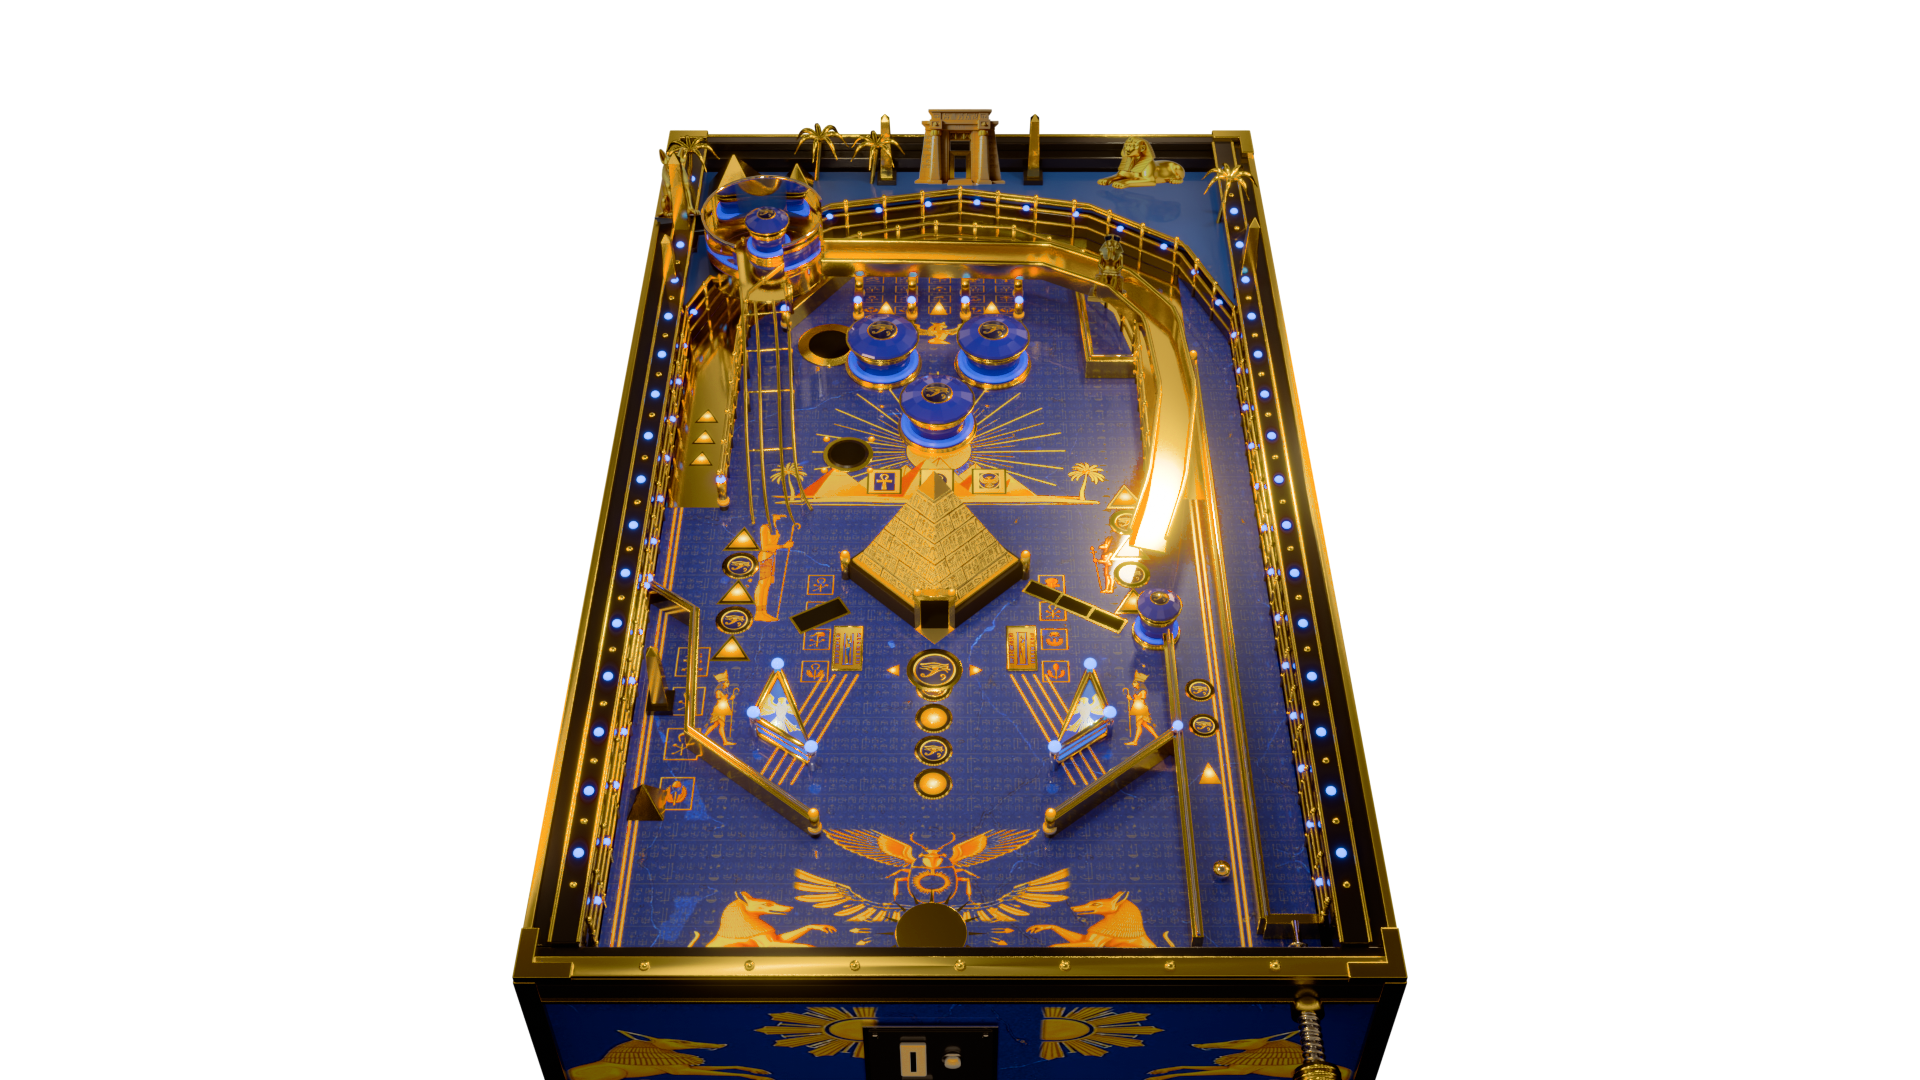
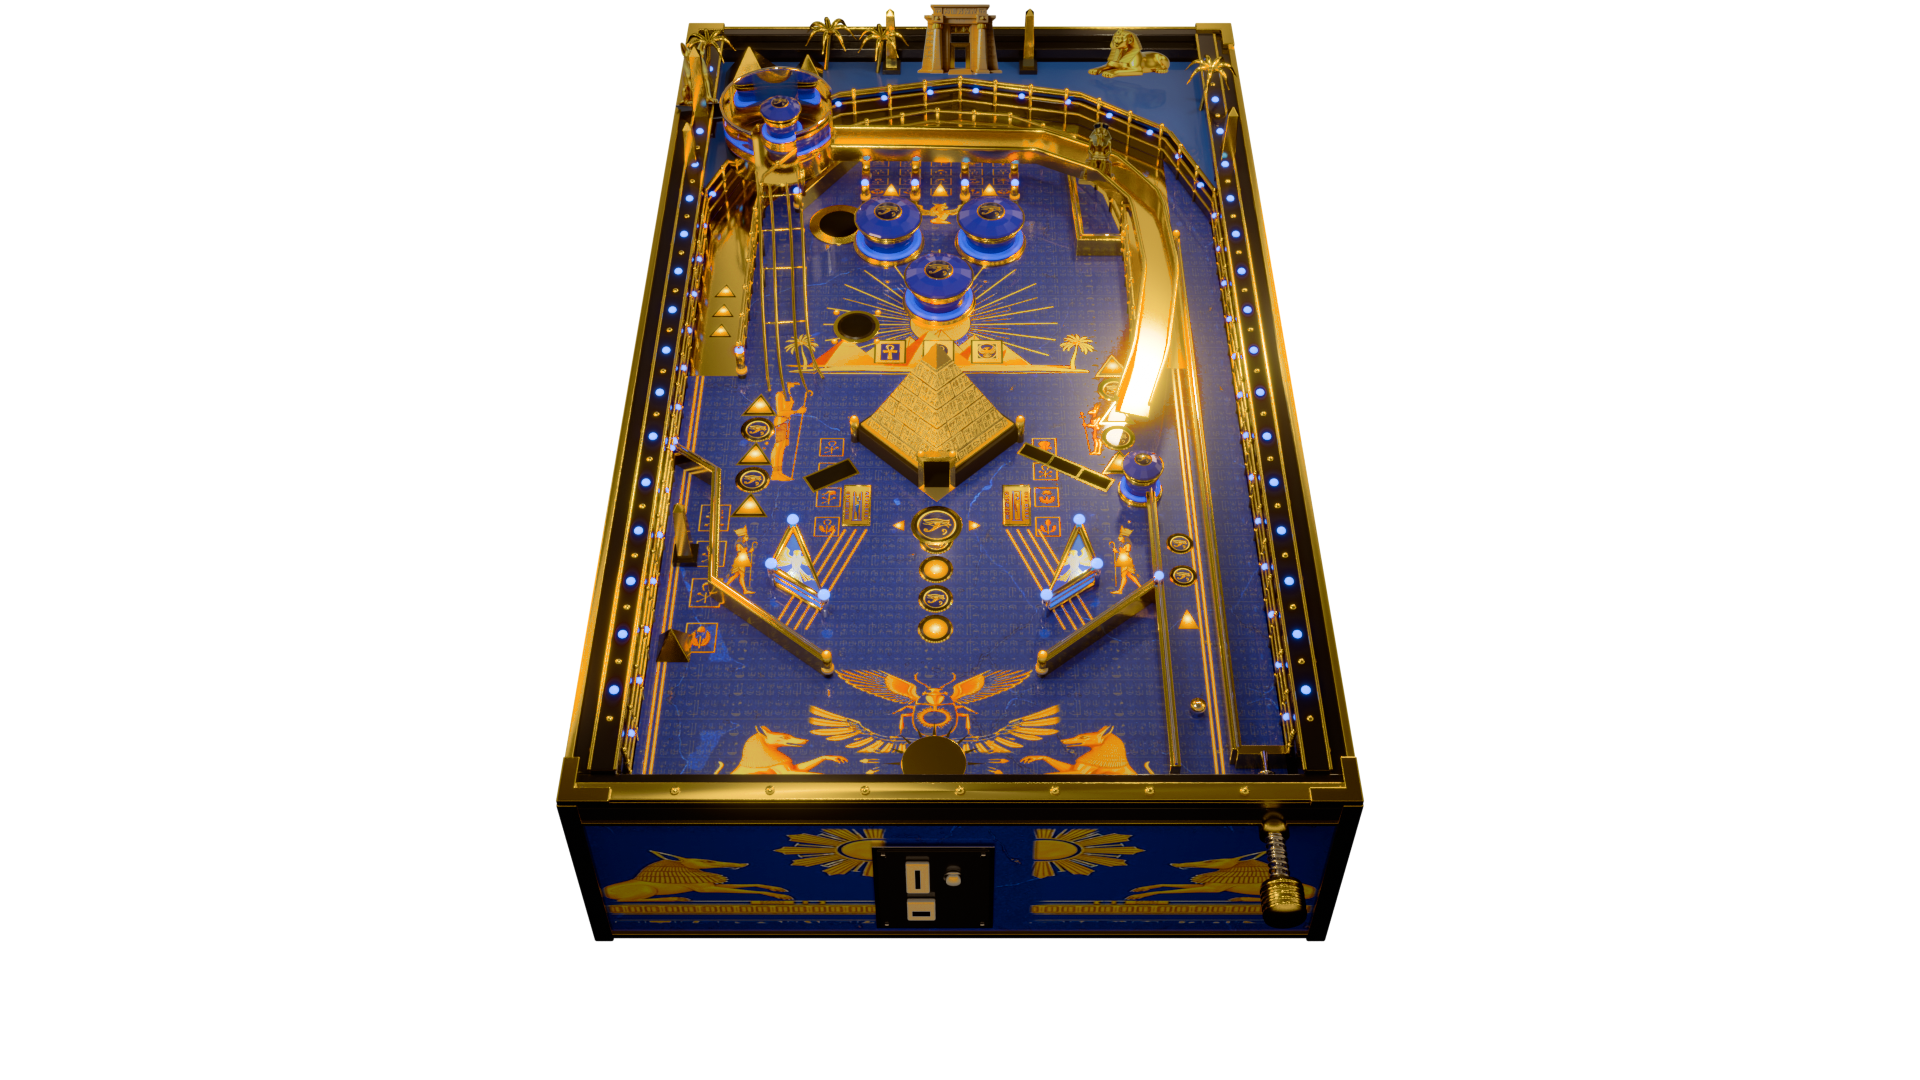
Stage layout as the owner placed it: the table high in the frame, the scoreboard at its foot
FRAME_TOP 58 and FRAME_BOTTOM 882 (92% of the old 168 to 1066): the temple reaches the frame's top edge and the
cabinet's front with the plunger's knob is in view. The scoreboard is 448 px wide, centred at the frame's foot
(bottom: 0) and grows upward over the cabinet's front; long names break inside it. The big titles move up with the
playfield (top 290 px). The picture is re-rendered through the new camera (CAMERA MATCH 0.00 px), and picture-test
holds stageCamera to the FRAME numbers.

diff --git a/tests/picture-test.ts b/tests/picture-test.ts
@@ -1,14 +1,16 @@
 // Tests the stage's picture (src/assets/pinball.png, made by `npm run picture` in Blender): it was rendered from the
-// table in use (its sidecar's hash), through the stage's own camera (stageCamera), at the stage's size.
+// table in use (its sidecar's hash), through the stage's own camera (stageCamera), at the stage's size; and that camera
+// puts the table's frame where FRAME_TOP and FRAME_BOTTOM say.
 // Usage: npm run picture-test
 import assert from 'node:assert/strict';
 import { createHash } from 'node:crypto';
 import { readFileSync } from 'node:fs';
-import { TABLE_IN_USE } from '../src/shared/table';
+import * as THREE from 'three';
+import { TABLE, TABLE_IN_USE } from '../src/shared/table';
 // The stage's code loads in Node with its CSS and the like stubbed (stub-assets.ts).
 import './stub-assets';
 
-const { stageCamera } = await import('../src/stage/pinball');
+const { FRAME_BOTTOM, FRAME_TOP, stageCamera, tiltTable } = await import('../src/stage/pinball');
 const { WIDTH, HEIGHT } = await import('@kit/stage');
 
 const PNG = new URL('../src/assets/pinball.png', import.meta.url);
@@ -37,6 +39,30 @@ test("the picture's camera is the stage's camera", () => {
   stage.matrix.forEach((v, i) => assert.ok(Math.abs(camera.matrix[i] - v) <= 1e-6, `matrix[${i}]: ${camera.matrix[i]} vs the stage's ${v}`));
   assert.ok(Math.abs(camera.fovY - stage.fovY) <= 1e-6, `fovY: ${camera.fovY} vs the stage's ${stage.fovY}`);
   assert.ok(Math.abs(camera.viewY - stage.viewY) <= 1e-6, `viewY: ${camera.viewY} vs the stage's ${stage.viewY}`);
+});
+
+test("the stage's camera fits the table's frame between FRAME_TOP and FRAME_BOTTOM", () => {
+  // The box stageCamera fits: the side rails' outsides, the front rail to past the top rail, from the playfield up to
+  // the rails' tops (TABLE's size), placed as the stage places the table.
+  const fit = stageCamera(TABLE_IN_USE, WIDTH, HEIGHT);
+  const camera = new THREE.PerspectiveCamera(fit.fovY, WIDTH / HEIGHT, 0.5, 200);
+  camera.matrixAutoUpdate = false;
+  camera.matrixWorld.fromArray(fit.matrix);
+  camera.matrixWorldInverse.copy(camera.matrixWorld).invert();
+  camera.setViewOffset(WIDTH, HEIGHT, 0, fit.viewY, WIDTH, HEIGHT);
+  const table = tiltTable(new THREE.Group());
+  table.updateMatrixWorld(true);
+  const half = TABLE.width / 2 + 0.8;
+  const ys: number[] = [];
+  for (const x of [-half, half]) {
+    for (const z of [-1.7, TABLE.length + 0.6]) {
+      for (const y of [0, 0.9]) ys.push(((1 - new THREE.Vector3(x, y, z).applyMatrix4(table.matrixWorld).project(camera).y) / 2) * HEIGHT);
+    }
+  }
+  // The camera steps back in small steps until the box fits, so each edge is within a pixel of its band's.
+  const [top, bottom] = [Math.min(...ys), Math.max(...ys)];
+  assert.ok(Math.abs(top - FRAME_TOP) <= 1, `the frame's top is at ${top.toFixed(1)} px, not FRAME_TOP ${FRAME_TOP}`);
+  assert.ok(Math.abs(bottom - FRAME_BOTTOM) <= 1, `the frame's bottom is at ${bottom.toFixed(1)} px, not FRAME_BOTTOM ${FRAME_BOTTOM}`);
 });
 
 test("the picture is the stage's size", () => {

diff --git a/src/stage/pinball.css b/src/stage/pinball.css
@@ -1,17 +1,22 @@
 /*
- * The pinball's scoreboard (PinballHud, pinball-hud.ts), in the stage's #machine-overlay: the backglass over the top of
- * the table, as the claw's turn box sits across its cabinet's base.
+ * The pinball's scoreboard (PinballHud, pinball-hud.ts), in the stage's #machine-overlay: at the frame's foot, under
+ * the plunger, across the cabinet's front, as the claw's turn box sits across its cabinet's base (the owner placed it,
+ * 2026-10-26). It's anchored by its bottom edge, so it grows upward over the cabinet's front as lines come and go.
+ * 448 px wide and centred, so the corner and vertical layouts (the stage's middle 1040 px) show it whole. Long lines
+ * wrap inside it, and a name with no break in it is broken anywhere rather than spilling out of the box.
  */
 #pinball-hud {
   position: absolute;
-  top: 14px;
+  bottom: 0;
   left: 50%;
-  width: 640px;
+  width: 448px;
   transform: translateX(-50%);
-  padding: 10px 22px 9px;
-  border-radius: 14px;
+  padding: 9px 14px 8px;
+  border-radius: 14px 14px 0 0;
+  overflow-wrap: anywhere;
   background: rgba(10, 4, 24, 0.86);
   border: 3px solid var(--cyan);
+  border-bottom-width: 0;
   font-family: var(--arcade);
   font-size: 15px;
   line-height: 1.6;
@@ -166,7 +171,11 @@ body.no-commands
 #pinball-title {
   --c: var(--yellow);
   position: absolute;
-  top: 420px;
+  /*
+   * Over the playfield's upper middle: where it was in the table's old frame (420 px, in 168 to 1066), in its frame now
+   * (FRAME_TOP 58 to FRAME_BOTTOM 882, pinball.ts).
+   */
+  top: 290px;
   left: 50%;
   white-space: nowrap;
   text-align: center;

diff --git a/src/stage/pinball.ts b/src/stage/pinball.ts
@@ -73,11 +73,14 @@ const onAt = (event: { until: number } | null | undefined, now: number): boolean
 const CAMERA_PITCH = 40;
 const CAMERA_FOV = 32;
 /**
- * Where the table sits in the frame, in frame pixels from the top: under the scoreboard (the backglass, pinball.css)
- * down to the frame's foot.
+ * Where the table's frame (its rails, the front rail to past the top rail: stageCamera) sits in the frame, in frame
+ * pixels from the top. The owner placed it by hand (2026-10-26): high in the frame, at 92% of its old size (168 to 1066),
+ * so the cabinet's front and the plunger's knob below the rails (to about y 942) are in view, and the temple behind the
+ * top rail reaches the frame's top edge. The scoreboard (pinball.css) sits under it at the frame's foot, over the
+ * cabinet's front.
  */
-const FRAME_TOP = 168;
-const FRAME_BOTTOM = 1066;
+export const FRAME_TOP = 58;
+export const FRAME_BOTTOM = 882;
 /** How hard the view shakes in a quake (frame pixels), and the city behind it (scene units), as the claw's. */
 const QUAKE_PIXELS = 22;
 const QUAKE_SHAKE = 0.28;
